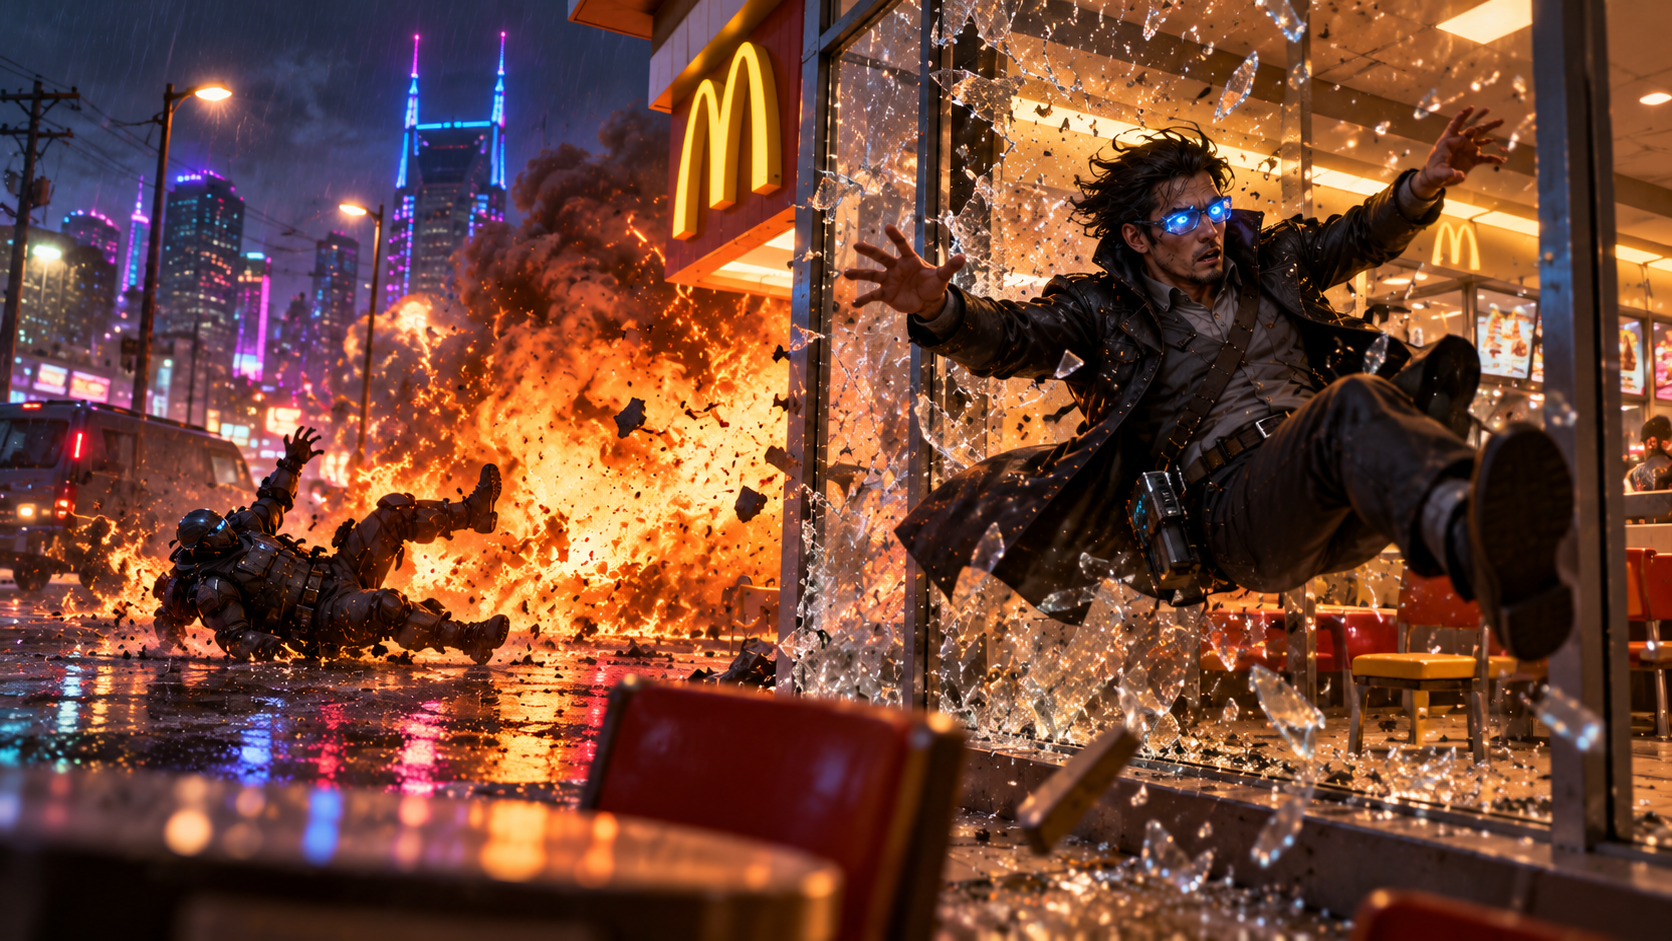
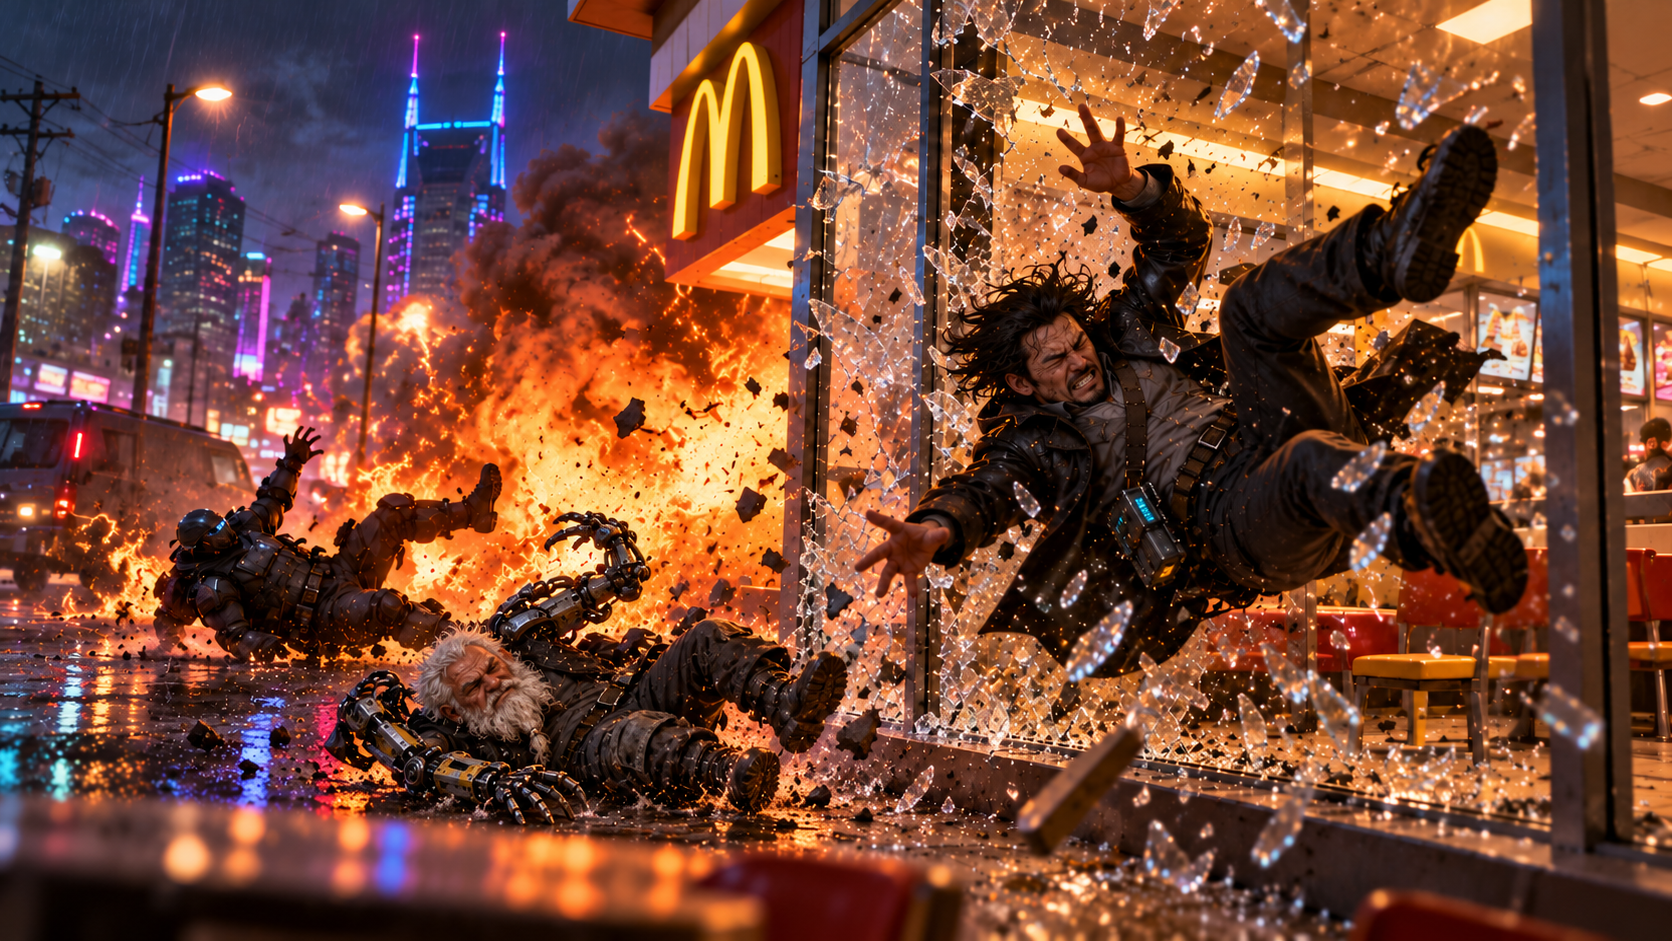
Revise blast scene illustration

diff --git a/Sessions/2026-10-15.md b/Sessions/2026-10-15.md
@@ -17,7 +17,7 @@ sources:
 
 ![A tainted spirit erupts above the McDonald's parking-lot blast as Kilimanjaro stumbles into an accidental breakdance move in the background.](../assets/images/Session-2026-10-15-Sandusky-Handoff.png)
 
-![Mevin is blown through McDonald's shattered front window as the fireball topples The Running Runt backward outside.](../assets/images/Session-2026-10-15-Mevin-Through-Window.png)
+![Mevin flails through McDonald's shattered front window as Curtis and The Running Runt are knocked down by the fireball outside.](../assets/images/Session-2026-10-15-Mevin-Through-Window.png)
 
 ## Summary
 
